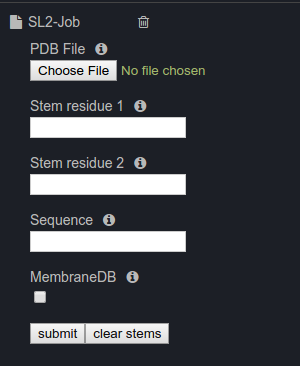
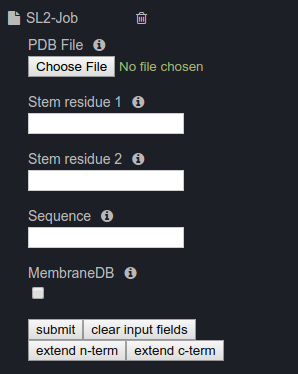
change manual

Changed region(s): [[0.0, 0.0, 0.755, 0.9918], [0.453, 0.0301, 0.5134, 0.0902]]

diff --git a/www/manual.php b/www/manual.php
@@ -45,7 +45,9 @@
 	   finished, the results are displayed automatically.</a>
        
       <h5> Modify search</h5>
-       <a>To modify the search parameters after reviewing the results change the form and press
+       <a>If no suitable loop was found a possible solution is to extend the loop search in N- or C- terminal direction.
+       To do this push one of the extension buttons. The stem residue will be changed by one into the chosen direction
+       and the search sequence will be updated automatically. To modify the search parameters manually change the form and press
        submit. The result table will be updated after the search is completed. To start a completely new job please reload the web-site. Old results will be lost. </a>
        </td>
                <td><img src="pictures/new_job.png" alt="logo"></td>
